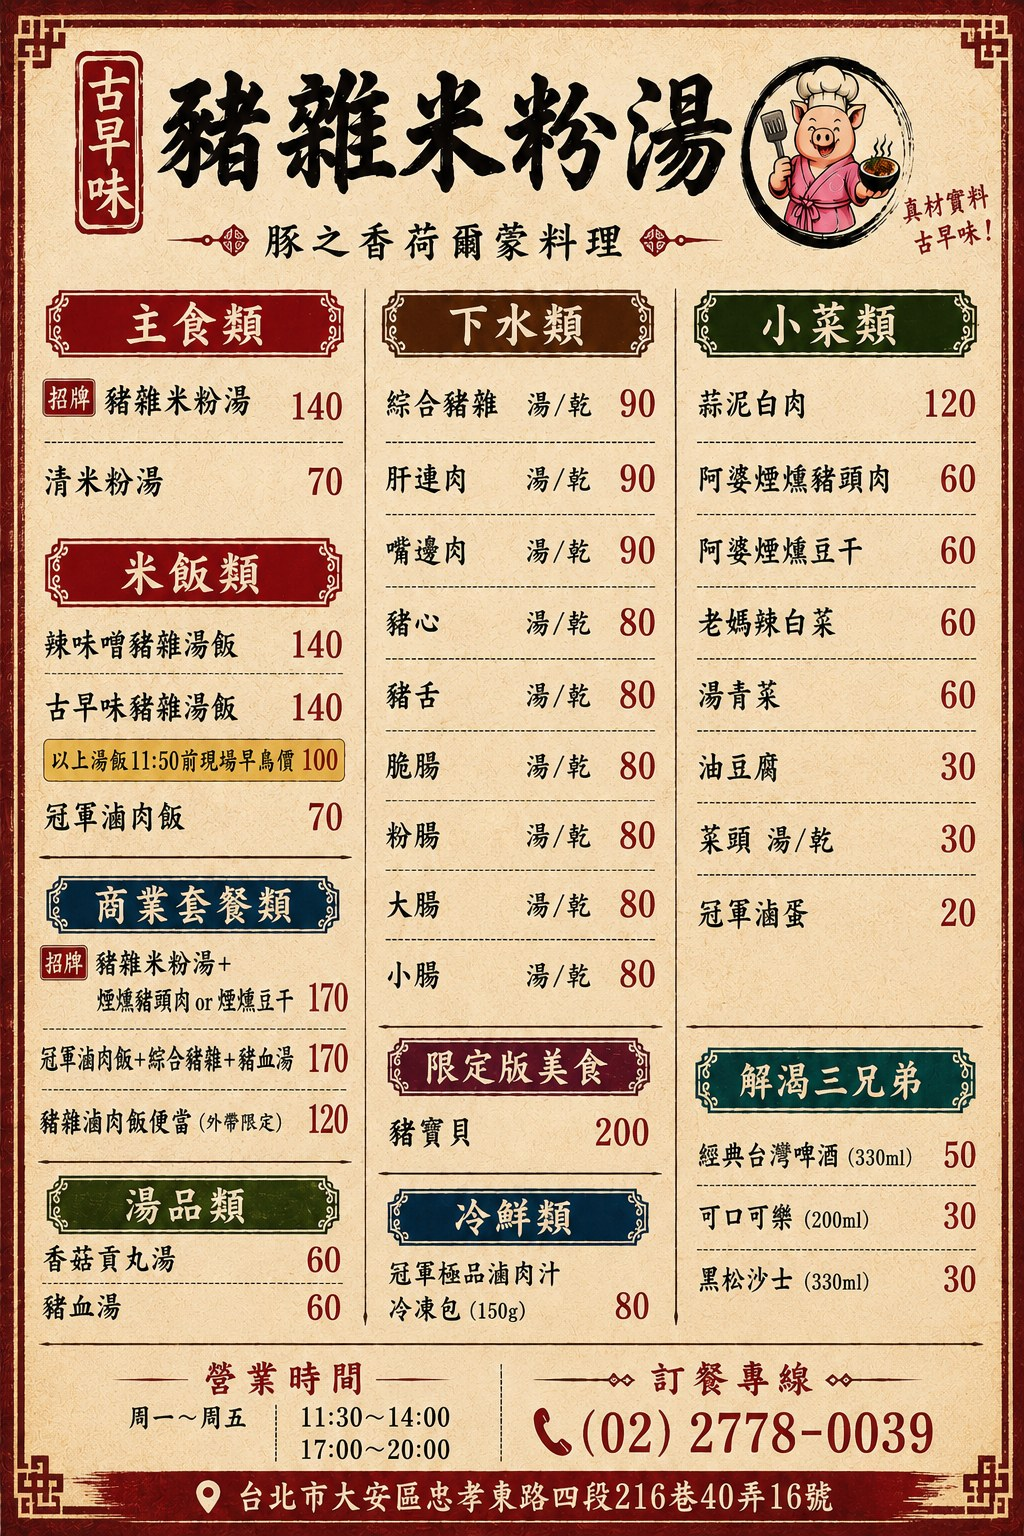
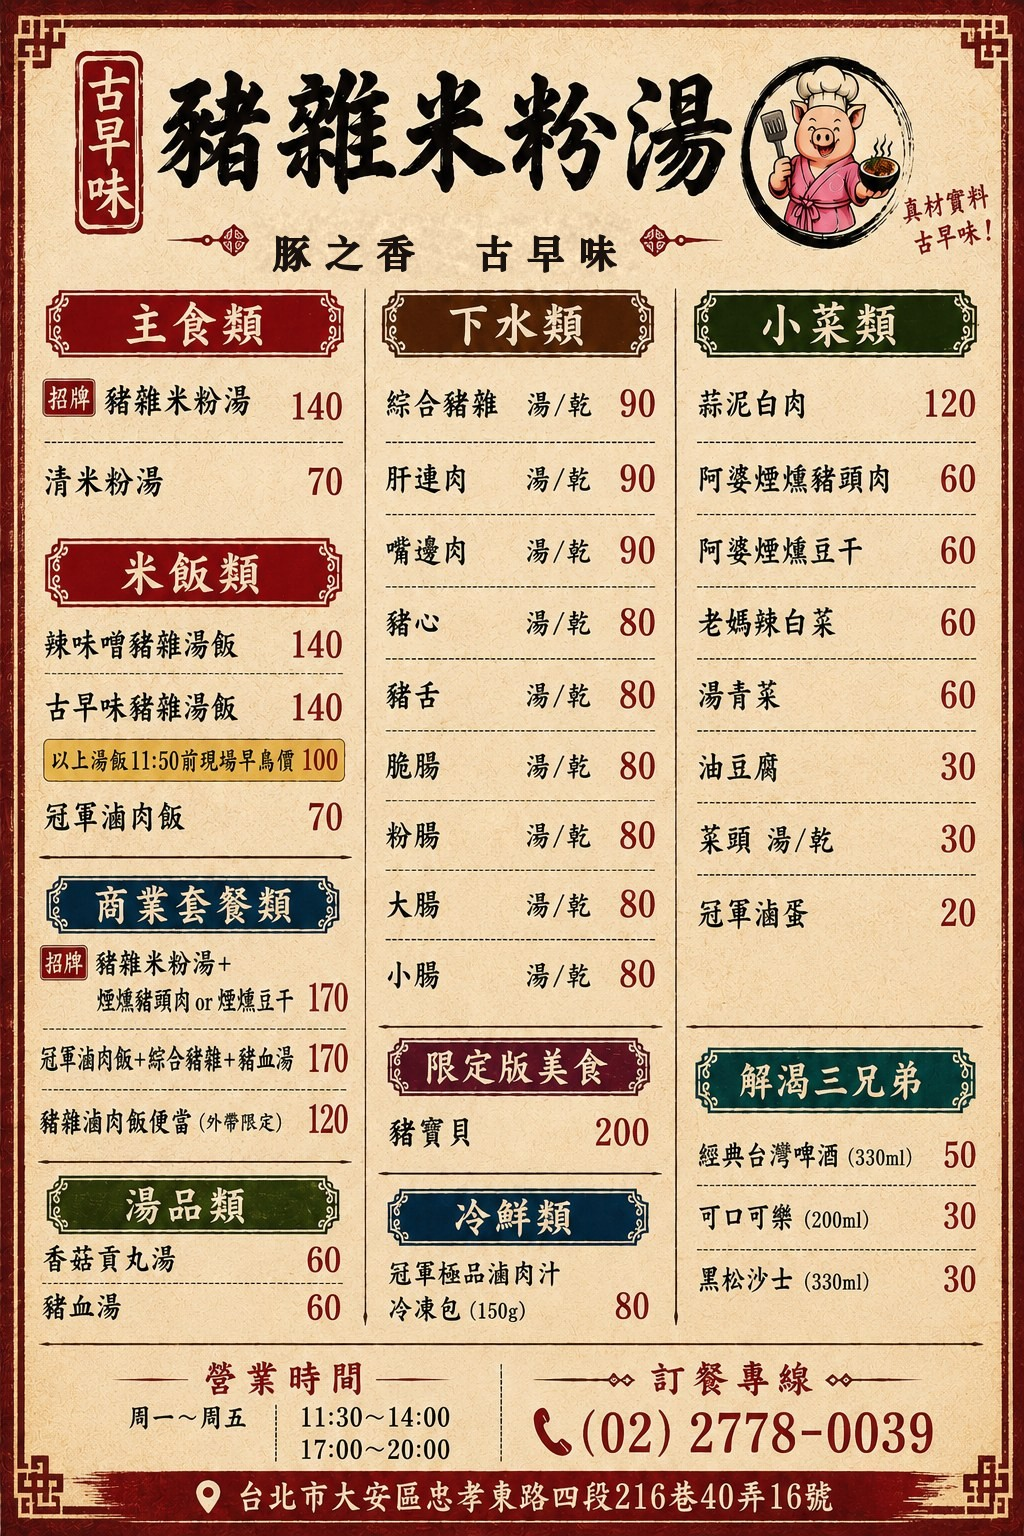
Menu photos (16/32), redesigned promise section, remove 荷爾蒙料理 wording, fix poster

Changed region(s): [[0.25, 0.125, 0.625, 0.1875]]

diff --git a/src/content/menu.ts b/src/content/menu.ts
@@ -155,10 +155,12 @@ export const MENU: MenuCategory[] = [
           ko: "표고버섯 완자탕",
         },
         price: 60,
+        img: "soup-meatball",
       },
       {
         name: { zh: "豬血湯", en: "Pork Blood Soup", ja: "豚の血のスープ", ko: "선지탕" },
         price: 60,
+        img: "soup-blood",
       },
     ],
   },
@@ -181,6 +183,7 @@ export const MENU: MenuCategory[] = [
       {
         name: { zh: "綜合豬雜", en: "Assorted Offal", ja: "もつ盛り合わせ", ko: "모둠 내장" },
         price: 90,
+        img: "offal-assorted",
         modes: true,
       },
       {
@@ -191,26 +194,31 @@ export const MENU: MenuCategory[] = [
           ko: "간련 (돼지 횡격막)",
         },
         price: 90,
+        img: "offal-liver",
         modes: true,
       },
       {
         name: { zh: "嘴邊肉", en: "Pork Cheek", ja: "豚ほほ肉", ko: "돼지 볼살" },
         price: 90,
+        img: "offal-cheek",
         modes: true,
       },
       {
         name: { zh: "豬心", en: "Pork Heart", ja: "豚ハツ", ko: "돼지 염통" },
         price: 80,
+        img: "offal-heart",
         modes: true,
       },
       {
         name: { zh: "豬舌", en: "Pork Tongue", ja: "豚タン", ko: "돼지 혀" },
         price: 80,
+        img: "offal-tongue",
         modes: true,
       },
       {
         name: { zh: "脆腸", en: "Crunchy Intestine", ja: "コリコリ腸", ko: "오독오독 곱창" },
         price: 80,
+        img: "offal-crunchy",
         modes: true,
       },
       {

diff --git a/src/app/[locale]/menu/page.tsx b/src/app/[locale]/menu/page.tsx
@@ -109,9 +109,15 @@ export default async function MenuPage({ params }: PageProps<"/[locale]/menu">) 
                       ) : (
                         <span
                           aria-hidden
-                          className="flex h-[88px] w-[88px] shrink-0 items-center justify-center rounded-xl bg-ink font-serif text-4xl font-black text-cream/20 sm:h-28 sm:w-28"
+                          className="relative h-[88px] w-[88px] shrink-0 overflow-hidden rounded-xl bg-paper-2 ring-1 ring-ink/10 sm:h-28 sm:w-28"
                         >
-                          {it.name.zh[0]}
+                          <Image
+                            src="/images/mascot.png"
+                            alt=""
+                            fill
+                            sizes="112px"
+                            className="object-contain p-3 opacity-45 grayscale"
+                          />
                         </span>
                       )}
                       <div className="min-w-0 flex-1 self-center">
